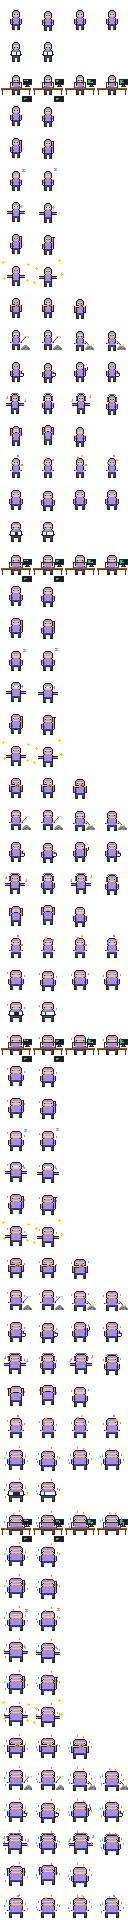
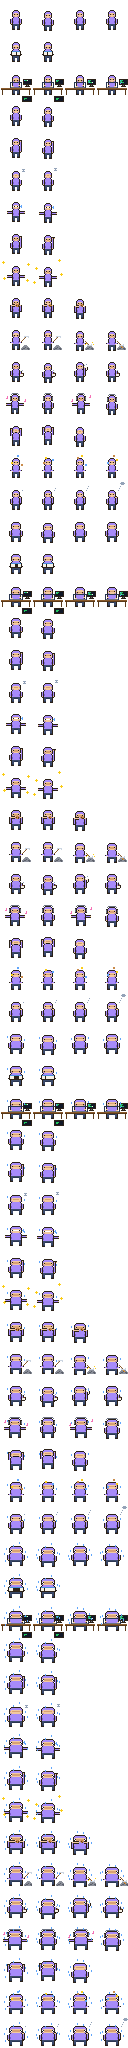
Show a thinking pose while Claude generates instead of falling back to idle
Claude Code sends no hook between a tool result and the next tool call, so the
buddy used to say "idle" mid-turn. Track a `thinking` flag (set on
UserPromptSubmit and PostToolUse, cleared by the next tool, Stop, or a
permission/notification) and show a new hand-on-chin pose with thought dots and
rotating spinner verbs ("pondering…", "bip-booping…"). A 10 min cap covers a
missed Stop.

diff --git a/Sources/ClaudeBuddy/Model.swift b/Sources/ClaudeBuddy/Model.swift
@@ -4,12 +4,12 @@ import Observation
 /// One animation row in the sprite sheet. Row order must match tools/gen_sprites.py.
 enum Pose: Int, CaseIterable {
     case idle = 0, read, type, run, wait, sleep, oops, wave, spawn, eat, mine
-    case coffee, dance, stretch, juggle
+    case coffee, dance, stretch, juggle, think
 
     var row: Int { rawValue }
     var frameCount: Int {
         switch self {
-        case .idle, .type, .mine, .coffee, .dance, .juggle: return 4
+        case .idle, .type, .mine, .coffee, .dance, .juggle, .think: return 4
         case .eat, .stretch: return 3
         default: return 2
         }
@@ -18,7 +18,7 @@ enum Pose: Int, CaseIterable {
         switch self {
         case .idle, .stretch: return 1.5
         case .sleep: return 1
-        case .coffee: return 2
+        case .coffee, .think: return 2
         case .dance: return 4
         case .juggle: return 5
         case .type: return 4
@@ -32,6 +32,10 @@ enum Pose: Int, CaseIterable {
     var isEasterEgg: Bool { Self.easterEggs.contains(self) || self == .stretch }
     /// How long a trick plays before the character goes back to idling.
     static let easterEggDuration: TimeInterval = 4
+
+    /// Claude Code's spinner has silly verbs; so do we.
+    static let thinkingVerbs = ["thinking…", "pondering…", "bip-booping…", "cogitating…", "brewing…",
+                                "mulling…", "noodling…", "scheming…", "determining…", "percolating…"]
 
     var caption: String? {
         switch self {
@@ -115,6 +119,8 @@ final class Agent: Identifiable {
     var bubble: String?
     /// Claude is blocked on the user (permission, question, elicitation): show `bubble` in a speech bubble.
     var needsInput = false
+    /// Claude is generating (between a prompt or tool result and the next tool call / Stop).
+    var thinking = false
     var lastEvent = Date()
     var leaving = false
     var poseStarted = Date()
@@ -139,12 +145,20 @@ final class Agent: Identifiable {
         self.label = label; self.tint = tint
     }
 
-    func set(_ pose: Pose, bubble: String? = nil, needsInput: Bool = false) {
+    func set(_ pose: Pose, bubble: String? = nil, needsInput: Bool = false, thinking: Bool = false) {
         self.pose = pose
         self.bubble = bubble
         self.needsInput = needsInput
+        self.thinking = thinking
         poseStarted = Date()
         lastEvent = Date()
+    }
+
+    /// Hand on chin with a random spinner verb; leaves `lastEvent` alone.
+    func think(now: Date) {
+        pose = .think
+        bubble = Pose.thinkingVerbs.randomElement()
+        poseStarted = now
     }
 
     /// Plays a trick without counting as activity, so the idle/sleep countdown keeps running.
@@ -193,7 +207,7 @@ final class SessionModel {
         case "SessionStart":
             main(for: e).set(.spawn, bubble: "hej!")
         case "UserPromptSubmit":
-            main(for: e).set(.idle, bubble: "…")
+            main(for: e).set(.think, bubble: Pose.thinkingVerbs.randomElement(), thinking: true)
         case "SubagentStart":
             let sub = subagent(for: e)
             sub.set(.spawn, bubble: "spawned")
@@ -216,9 +230,10 @@ final class SessionModel {
             target.set(pose, bubble: e.hint)
         case "PostToolUse":
             let target = actor(for: e)
-            // Keep the pose visible for a moment; the tick() will settle it to idle.
+            // Keep the pose visible for a moment; the tick() then switches to thinking until the next tool or Stop.
             target.lastEvent = Date()
             target.needsInput = false   // a tool ran, so any pending permission was granted
+            target.thinking = true
         case "PostToolUseFailure":
             actor(for: e).set(.oops, bubble: e.hint.map { "oops · \($0)" } ?? "oops")
         case "PermissionRequest":
@@ -297,7 +312,7 @@ final class SessionModel {
                 agent.contextTokens = tokens
                 // Context grew: nom nom. Don't interrupt a raised hand (waiting for the user).
                 if let previous, tokens > previous + 1_000, agent.pose != .wait, !agent.leaving {
-                    agent.set(.eat, bubble: "nom nom · +\(ContextMeter.format(tokens - previous))")
+                    agent.set(.eat, bubble: "nom nom · +\(ContextMeter.format(tokens - previous))", thinking: agent.thinking)
                 }
             }
         }
@@ -315,11 +330,18 @@ final class SessionModel {
                 if sincePose > 2.5 { remove.append(a.id) }
                 continue
             }
+            // A Stop that never arrived: don't look busy forever.
+            if a.thinking && sinceEvent > 10 * 60 { a.thinking = false }
             switch a.pose {
             case .spawn, .oops, .wave, .eat:
-                if sincePose > 2 { a.set(.idle, bubble: a.bubble) }
+                if sincePose > 2 { a.thinking ? a.think(now: now) : a.set(.idle, bubble: a.bubble) }
             case .read, .type, .run:
-                if sinceEvent > 4 { a.set(.idle, bubble: nil) }
+                if sinceEvent > 4 { a.thinking ? a.think(now: now) : a.set(.idle, bubble: nil) }
+            case .think:
+                if !a.thinking { a.settle(now: now) }
+                else if sincePose > 12 { a.think(now: now) }    // new verb now and then
+            case .idle where a.thinking:
+                a.think(now: now)
             case .idle:
                 if sinceEvent > 8 { a.bubble = nil }
                 if sinceEvent > 60 {

diff --git a/tools/gen_sprites.py b/tools/gen_sprites.py
@@ -3,11 +3,11 @@
 
 Output: Sources/ClaudeBuddy/Resources/buddy.png (main) and buddy_1..buddy_4.png (tinted clones).
 Sheet layout: 32x32 px frames, 4 columns, one animation per row (unused frames stay empty).
-Rows come in FAT_LEVELS blocks of 15: block 0 is the normal body, each further block is a wider one
+Rows come in FAT_LEVELS blocks of 16: block 0 is the normal body, each further block is a wider one
 (used as the agent's context window fills up; level 2 is sweaty, level 3 dizzy and sweaty).
 Within a block the row order must match `Pose` in Sources/ClaudeBuddy/Model.swift:
   0 idle  1 read  2 type(desk)  3 run  4 wait  5 sleep  6 oops  7 wave  8 spawn  9 eat  10 mine
-  11 coffee  12 dance  13 stretch  14 juggle
+  11 coffee  12 dance  13 stretch  14 juggle  15 think
 Replace these PNGs with your own art as long as you keep the same grid.
 """
 import struct, zlib, os, sys
@@ -175,6 +175,7 @@ class Body:
         elif arms == 'forward': self.arms_forward(f, y, 12)
         elif arms == 'out': self.arms_out(f, y)
         elif arms == 'eat': self.arms_eat(f, y)
+        elif arms == 'chin': self.arms_down(f, y); self.arm_chin(f, y)
         self.ox -= x_off
         self.last_x_off = x_off
 
@@ -229,6 +230,22 @@ class Body:
         if phase % 2 == 0:
             r = max(k for k, n in enumerate(lines) if n)
             f.put(mx + 1 + lines[r], my + 1 + r, 'B')          # blinking cursor
+
+    def arm_chin(self, f, y):
+        """Right arm bent up, hand resting on the chin."""
+        col, outer = self.R(), self.R() + 1
+        for j in range(8, 13): f.put(col, y + j, 'h'); f.put(outer, y + j, 'o')
+        f.put(col, y + 13, 'o'); f.put(outer, y + 13, 'o')
+        f.put(col, y + 7, 's'); f.put(col - 1, y + 7, 's'); f.put(outer, y + 7, 'o')
+        f.put(col, y + 6, 'o'); f.put(col - 1, y + 6, 'o')
+
+    def thought(self, f, phase):
+        """Thought dots rising from the head, then a little cloud."""
+        x = self.ox + self.W
+        dots = [(x, OY), (x + 1, OY - 2), (x + 2, OY - 4)]
+        for k in range(min(phase + 1, 3)): f.put(*dots[k], 'z')
+        if phase >= 3:
+            f.blit([".zzz.", "zzzzz", ".zzz."], x + 2, OY - 8)
 
     def sweat(self, f, phase, side=+1):
         x, y = (self.ox + self.W - 1 if side > 0 else self.ox), OY + 3 + phase
@@ -365,6 +382,10 @@ def make_block(extra, condition='fine'):
     for ph in range(4):
         x = fr(arms='forward'); b.balls(x, ph); balls.append(x)
     rows.append(balls)                                                                                    # juggle
+    think = []
+    for ph in range(4):
+        x = fr(head='blink' if ph == 3 else 'open', arms='chin'); b.thought(x, ph); think.append(x)
+    rows.append(think)                                                                                    # think
     for row in rows:
         for i, f in enumerate(row): b.sweat_overlay(f, i)
     return rows

diff --git a/README.md b/README.md
@@ -40,7 +40,7 @@ position is remembered.
 | Hook event | Pose |
 |---|---|
 | `SessionStart` | sparkles, "hej!" |
-| `UserPromptSubmit` | idle with "…" |
+| `UserPromptSubmit`, and after every `PostToolUse` until the next tool | hand on chin, thought bubble, "pondering…" |
 | `PreToolUse` Read / Grep / Glob / WebFetch | reading a book |
 | `PreToolUse` Edit / Write | sits down at a desk and types, code appearing on the monitor |
 | `PreToolUse` Bash | terminal window |
@@ -71,6 +71,6 @@ Multiple concurrent Claude sessions each get their own character (labelled with 
 
 Sprite sheets live in `Sources/ClaudeBuddy/Resources/buddy.png` (main) and `buddy_1..4.png` (clone tints).
 Grid: 32×32 px frames, 4 columns, one animation per row in this order:
-`idle(4) read(2) type(4) run(2) wait(2) sleep(2) oops(2) wave(2) spawn(2) eat(3) mine(4) coffee(4) dance(4) stretch(3) juggle(4)`,
+`idle(4) read(2) type(4) run(2) wait(2) sleep(2) oops(2) wave(2) spawn(2) eat(3) mine(4) coffee(4) dance(4) stretch(3) juggle(4) think(4)`,
 repeated as one block per fat level (normal → fattest; the app derives the level count from the sheet height).
 Drop in your own PNGs with the same grid and rebuild. Frame counts / fps per row are in `Pose` in `Model.swift`.
